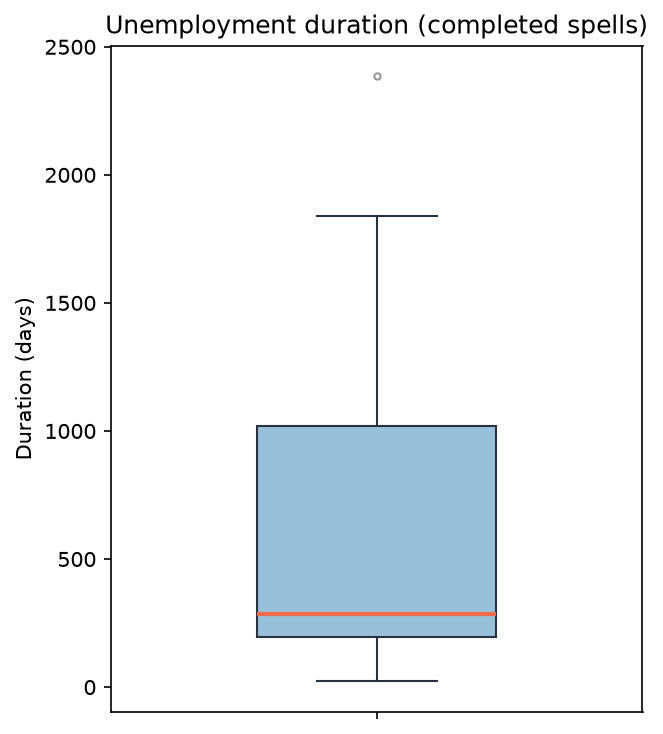
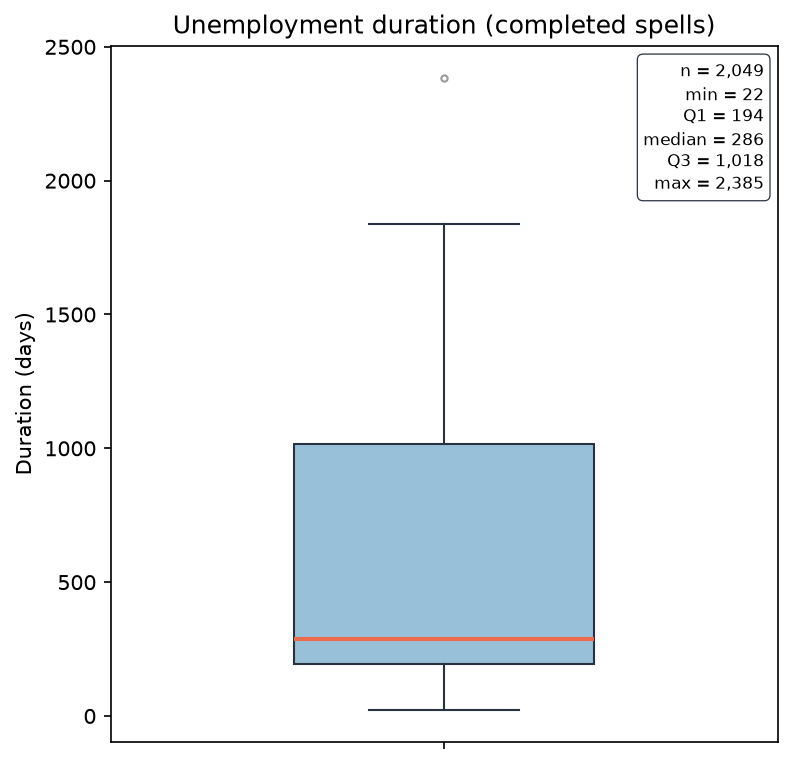
Label EDA charts with counts and quartiles so the figures can be read without the text tables. Keep the same plots and add bar, histogram, and boxplot annotations in output/png.

diff --git a/src/inspect/eda.py b/src/inspect/eda.py
@@ -34,6 +34,80 @@ plt.rcParams.update(
 )
 BAR_COLOR = "#3d5a80"
 HIST_COLOR = "#3d5a80"
+LABEL_BOX = {
+    "boxstyle": "round,pad=0.35",
+    "facecolor": "white",
+    "edgecolor": "#293241",
+    "linewidth": 0.6,
+}
+
+
+def _fmt_count(value: float) -> str:
+    return f"{int(round(value)):,}"
+
+
+def _fmt_stat(value: float) -> str:
+    if abs(value - round(value)) < 1e-6:
+        return f"{int(round(value)):,}"
+    return f"{value:,.1f}"
+
+
+def _stats_box(ax: plt.Axes, lines: list[str], loc: str = "upper right") -> None:
+    ha, va, x, y = {
+        "upper right": ("right", "top", 0.98, 0.98),
+        "upper left": ("left", "top", 0.02, 0.98),
+    }[loc]
+    ax.text(
+        x,
+        y,
+        "\n".join(lines),
+        transform=ax.transAxes,
+        ha=ha,
+        va=va,
+        fontsize=8,
+        linespacing=1.35,
+        bbox=LABEL_BOX,
+        zorder=5,
+    )
+
+
+def _label_hist_bars(ax: plt.Axes, counts: np.ndarray, patches) -> None:
+    labels = [_fmt_count(c) if c >= 1 else "" for c in counts]
+    ax.bar_label(patches, labels=labels, fontsize=6.5, rotation=90, padding=2)
+    ymax = float(np.max(counts)) if len(counts) else 1.0
+    ax.set_ylim(0, ymax * 1.32)
+
+
+def _annotate_numeric_box(ax: plt.Axes, data: np.ndarray) -> None:
+    _stats_box(
+        ax,
+        [
+            f"n = {_fmt_count(len(data))}",
+            f"min = {_fmt_stat(float(np.min(data)))}",
+            f"Q1 = {_fmt_stat(float(np.percentile(data, 25)))}",
+            f"median = {_fmt_stat(float(np.median(data)))}",
+            f"Q3 = {_fmt_stat(float(np.percentile(data, 75)))}",
+            f"max = {_fmt_stat(float(np.max(data)))}",
+        ],
+    )
+
+
+def _annotate_date_box(ax: plt.Axes, data: np.ndarray) -> None:
+    def as_date(num: float) -> str:
+        return mdates.num2date(num).strftime("%Y-%m-%d")
+
+    _stats_box(
+        ax,
+        [
+            f"n = {_fmt_count(len(data))}",
+            f"min = {as_date(float(np.min(data)))}",
+            f"Q1 = {as_date(float(np.percentile(data, 25)))}",
+            f"median = {as_date(float(np.median(data)))}",
+            f"Q3 = {as_date(float(np.percentile(data, 75)))}",
+            f"max = {as_date(float(np.max(data)))}",
+        ],
+        loc="upper left",
+    )
 
 
 def _ensure_dirs() -> None:
@@ -314,9 +388,21 @@ def _save(fig: plt.Figure, filename: str) -> Path:
 
 
 def plot_histogram(series: pd.Series, title: str, xlabel: str, filename: str) -> Path:
-    fig, ax = plt.subplots(figsize=(8, 4.5))
+    fig, ax = plt.subplots(figsize=(9, 5))
     data = series.dropna()
-    ax.hist(data, bins=30, color=HIST_COLOR, edgecolor="white", linewidth=0.4)
+    counts, _bins, patches = ax.hist(
+        data, bins=30, color=HIST_COLOR, edgecolor="white", linewidth=0.4
+    )
+    _label_hist_bars(ax, counts, patches)
+    _stats_box(
+        ax,
+        [
+            f"n = {_fmt_count(len(data))}",
+            f"mean = {_fmt_stat(float(data.mean()))}",
+            f"median = {_fmt_stat(float(data.median()))}",
+        ],
+        loc="upper left",
+    )
     ax.set_title(title)
     ax.set_xlabel(xlabel)
     ax.set_ylabel("Count")
@@ -324,7 +410,7 @@ def plot_histogram(series: pd.Series, title: str, xlabel: str, filename: str) ->
 
 
 def plot_boxplot(series: pd.Series, title: str, ylabel: str, filename: str) -> Path:
-    fig, ax = plt.subplots(figsize=(4.5, 5))
+    fig, ax = plt.subplots(figsize=(5.4, 5.2))
     data = series.dropna().to_numpy()
     ax.boxplot(
         data,
@@ -337,15 +423,28 @@ def plot_boxplot(series: pd.Series, title: str, ylabel: str, filename: str) -> P
         capprops={"color": "#293241"},
         flierprops={"marker": "o", "markersize": 3, "alpha": 0.4},
     )
+    _annotate_numeric_box(ax, data)
     ax.set_title(title)
     ax.set_ylabel(ylabel)
     return _save(fig, filename)
 
 
 def plot_date_histogram(series: pd.Series, title: str, filename: str) -> Path:
-    fig, ax = plt.subplots(figsize=(8, 4.5))
+    fig, ax = plt.subplots(figsize=(9, 5))
     data = series.dropna()
-    ax.hist(data, bins=30, color=HIST_COLOR, edgecolor="white", linewidth=0.4)
+    counts, _bins, patches = ax.hist(
+        data, bins=30, color=HIST_COLOR, edgecolor="white", linewidth=0.4
+    )
+    _label_hist_bars(ax, counts, patches)
+    _stats_box(
+        ax,
+        [
+            f"n = {_fmt_count(len(data))}",
+            f"mean = {pd.Timestamp(data.mean()).strftime('%Y-%m-%d')}",
+            f"median = {pd.Timestamp(data.median()).strftime('%Y-%m-%d')}",
+        ],
+        loc="upper left",
+    )
     ax.set_title(title)
     ax.set_xlabel("Date")
     ax.set_ylabel("Count")
@@ -354,7 +453,7 @@ def plot_date_histogram(series: pd.Series, title: str, filename: str) -> Path:
 
 
 def plot_date_boxplot(series: pd.Series, title: str, filename: str) -> Path:
-    fig, ax = plt.subplots(figsize=(4.5, 5))
+    fig, ax = plt.subplots(figsize=(5.6, 5.2))
     data = mdates.date2num(pd.to_datetime(series.dropna()))
     ax.boxplot(
         data,
@@ -367,6 +466,7 @@ def plot_date_boxplot(series: pd.Series, title: str, filename: str) -> Path:
         capprops={"color": "#293241"},
         flierprops={"marker": "o", "markersize": 3, "alpha": 0.4},
     )
+    _annotate_date_box(ax, data)
     ax.yaxis.set_major_formatter(mdates.DateFormatter("%Y-%m"))
     ax.set_title(title)
     ax.set_ylabel("Date")
@@ -377,18 +477,24 @@ def plot_bar_counts(
     series: pd.Series, title: str, filename: str, horizontal: bool = False
 ) -> Path:
     counts = series.dropna().value_counts()
-    fig_h = max(3.5, 0.35 * len(counts) + 1.5) if horizontal else 4.5
-    fig, ax = plt.subplots(figsize=(8, fig_h))
+    total = int(counts.sum())
+    values = counts.to_numpy()
+    labels = [f"{int(n):,} ({100 * n / total:.1f}%)" for n in values]
+    fig_h = max(3.8, 0.42 * len(counts) + 1.6) if horizontal else 5.0
+    fig, ax = plt.subplots(figsize=(9.2, fig_h))
     if horizontal:
-        ax.barh(
-            [str(i) for i in counts.index[::-1]],
-            counts.to_numpy()[::-1],
-            color=BAR_COLOR,
-        )
+        names = [str(i) for i in counts.index[::-1]]
+        heights = values[::-1]
+        bar_labels = labels[::-1]
+        bars = ax.barh(names, heights, color=BAR_COLOR)
+        ax.bar_label(bars, labels=bar_labels, padding=4, fontsize=8)
+        ax.set_xlim(0, max(heights) * 1.28)
         ax.set_xlabel("Count")
         ax.set_ylabel("")
     else:
-        ax.bar([str(i) for i in counts.index], counts.to_numpy(), color=BAR_COLOR)
+        bars = ax.bar([str(i) for i in counts.index], values, color=BAR_COLOR)
+        ax.bar_label(bars, labels=labels, padding=3, fontsize=8)
+        ax.set_ylim(0, max(values) * 1.18)
         ax.set_ylabel("Count")
         ax.set_xlabel("")
         plt.setp(ax.get_xticklabels(), rotation=25, ha="right")

diff --git a/ANALYSIS.md b/ANALYSIS.md
@@ -215,4 +215,16 @@ Figure: [trainings_card_counts.png](output/png/trainings_card_counts.png)
 5. **Trainings are short, recent, and usually completed.** Zero-day courses (10%) and the occupation typo `raaamatupidamine` should be kept in mind in later steps.
 6. Sum/mean/IQR were **not applied** to IDs or categoricals; they are reported in [descriptives.txt](output/txt/descriptives.txt) only where they are meaningful.
 
+---
+
+## 6. Value labels on figures
+
+**What was done.** All PNGs in [output/png](output/png) were regenerated with numbers on the chart:
+
+- Bar charts show **count and share** on each bar (for example `1,763 (35.3%)`).
+- Histograms show **bin counts** on the bars, plus n / mean / median in a corner box.
+- Boxplots show **n, min, Q1, median, Q3, max** in a corner box (dates as `YYYY-MM-DD`).
+
+**Conclusion.** The pictures in the sections above can be read without going back to the text files for the main frequencies and quartiles. The underlying numbers are unchanged.
+
 All figures: [output/png](output/png). All text summaries: [output/txt](output/txt).

diff --git a/docs/process.md b/docs/process.md
@@ -20,3 +20,6 @@ Completed tasks, newest last.
 4. **Exploratory data analysis (univariate)**
    - Added `src/inspect/eda.py` to profile both tables separately: overview, descriptives, histograms, and boxplots.
    - Wrote `output/txt` and `output/png`, and recorded findings in `ANALYSIS.md` in analysis order.
+
+5. **Value labels on figures**
+   - Added counts, percentages, and five-number summaries onto the EDA PNGs so the numbers are readable on the charts.
